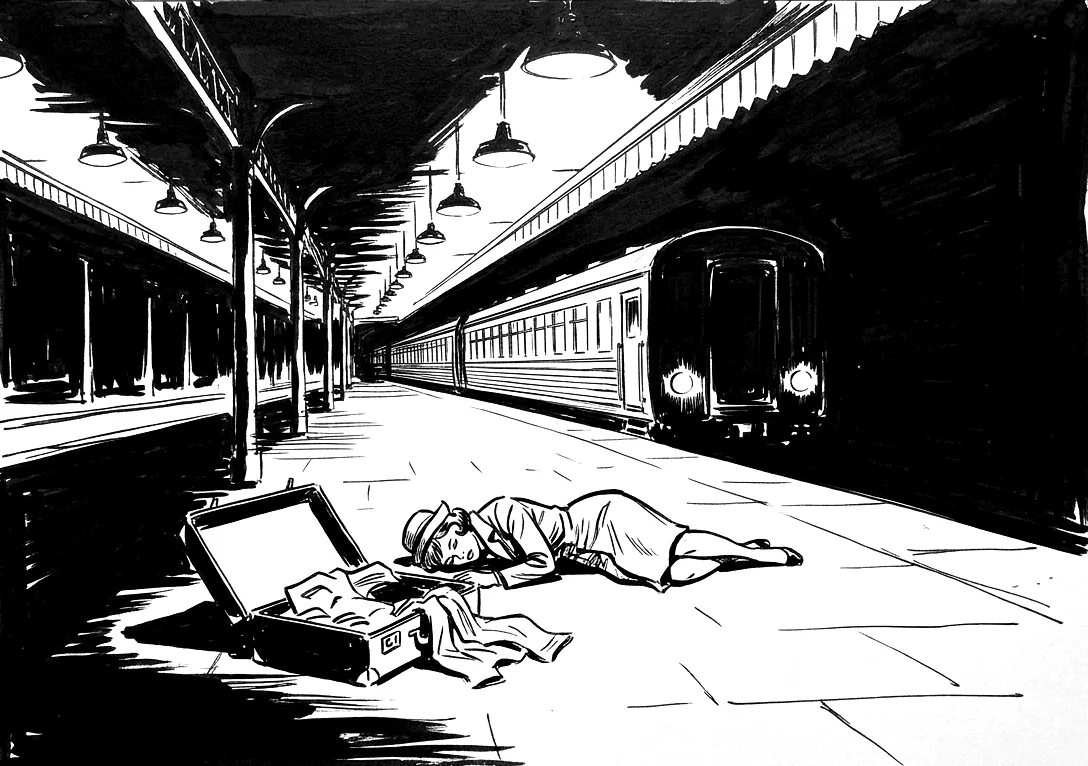
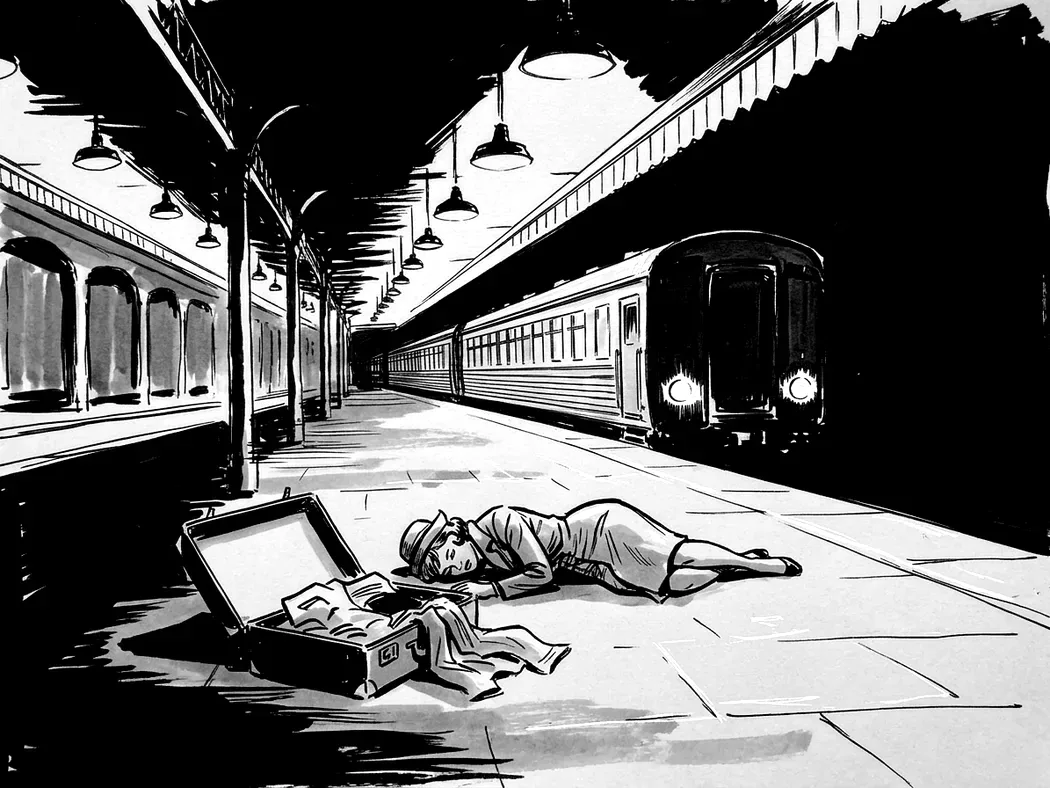
Mordbilder: perrong, trappa, hamn och telefonkiosk för både kvinna och man
Perrongen och trappan med kvinna är omgjorda med de nya prompterna
(Jonas 2026-11-14: "Mer enhetligt med övriga"), och nya bilder med man
är gjorda efter dem. Hamnen och telefonkiosken har fått nya bilder med
kvinna, gjorda efter mannens. Nu finns åtta mordbilder för kvinna och
åtta för man.

Hamnens dimma är ett undantag från gränsen för grått (Jonas 2026-11-14:
"ja, vi gör undantag"), och kontrollera-bilder.py hoppar över grått i
de två hamnbilderna.

Claude-Session: https://claude.ai/code/session_01X82C4AptUEE9LHKngPSzUq

diff --git a/src/scenes/sceneImages.js b/src/scenes/sceneImages.js
@@ -64,6 +64,10 @@ import morningMurderStairsWoman from './images/morgon-mord-trappa-kvinna.webp';
 import morningMurderPlatformWoman from './images/morgon-mord-perrong-kvinna.webp';
 import morningMurderDocksMan from './images/morgon-mord-hamn-man.webp';
 import morningMurderPhoneBoothMan from './images/morgon-mord-telefonkiosk-man.webp';
+import morningMurderStairsMan from './images/morgon-mord-trappa-man.webp';
+import morningMurderPlatformMan from './images/morgon-mord-perrong-man.webp';
+import morningMurderDocksWoman from './images/morgon-mord-hamn-kvinna.webp';
+import morningMurderPhoneBoothWoman from './images/morgon-mord-telefonkiosk-kvinna.webp';
 import morningNoMurder from './images/morgon-ingen.webp';
 import verdictWoman from './images/dom-kvinna.webp';
 import verdictMan from './images/dom-man.webp';
@@ -137,10 +141,14 @@ export const SCENE_IMAGES = /** @type {const} */ ({
   morningMurderCloseUpMan: { src: morningMurderCloseUpMan, alt: 'En man i kostym ligger död på ett mörkt trägolv. En nedslagen skrivbordslampa ligger på sidan bredvid honom, och glasögonen ligger i ljuset.', position: '35% 50%' },
   morningMurderPoliceWoman: { src: morningMurderPoliceWoman, alt: 'En kvinna ligger död på en våt gata en grå morgon. En polis sitter på huk bredvid henne, hennes sko och handväska ligger utspridda, och en bagare, en man med portfölj och en tidningspojke tittar på.', position: '40% 50%' },
   morningMurderPoliceMan: { src: morningMurderPoliceMan, alt: 'En man ligger död på en våt gata en grå morgon. En polis sitter på huk bredvid honom, hans hatt ligger på gatstenen, och en bagare, en man med portfölj och en tidningspojke tittar på.', position: '40% 50%' },
-  morningMurderStairsWoman: { src: morningMurderStairsWoman, alt: 'Sett uppifrån i ett spiraltrapphus ligger en kvinna död på det rutiga golvet längst ner. Hennes skor ligger kvar på trappstegen.', position: '50% 50%' },
+  morningMurderStairsWoman: { src: morningMurderStairsWoman, alt: 'Sett uppifrån i ett spiraltrapphus ligger en kvinna död på det rutiga golvet längst ner. En av hennes skor ligger kvar på trappstegen.', position: '50% 50%' },
   morningMurderPlatformWoman: { src: morningMurderPlatformWoman, alt: 'En kvinna i hatt ligger död på en perrong bredvid en uppbruten resväska, medan ett tåg står inne vid plattformen.', position: '35% 50%' },
   morningMurderDocksMan: { src: morningMurderDocksMan, alt: 'En man ligger död bland lårar på en kaj i dimman, under kranar och ett stort fartyg. Hans hatt flyter i vattnet.', position: '50% 50%' },
   morningMurderPhoneBoothMan: { src: morningMurderPhoneBoothMan, alt: 'En man i hatt och rock sitter död i en telefonkiosk i regnet. Luren hänger i sin sladd ovanför honom.', position: '45% 50%' },
+  morningMurderStairsMan: { src: morningMurderStairsMan, alt: 'Sett uppifrån i ett spiraltrapphus ligger en man död på det rutiga golvet längst ner. Hans hatt ligger kvar på trappstegen.', position: '50% 50%' },
+  morningMurderPlatformMan: { src: morningMurderPlatformMan, alt: 'En man i mörk rock ligger död på en perrong bredvid en uppbruten resväska och sin hatt, medan ett tåg står inne vid plattformen.', position: '35% 50%' },
+  morningMurderDocksWoman: { src: morningMurderDocksWoman, alt: 'En kvinna ligger död bland lårar på en kaj i dimman, under kranar och ett stort fartyg. Hennes hatt flyter i vattnet.', position: '50% 50%' },
+  morningMurderPhoneBoothWoman: { src: morningMurderPhoneBoothWoman, alt: 'En kvinna i ljus kappa sitter död i en telefonkiosk i regnet med hatten i knät. Luren hänger i sin sladd ovanför henne.', position: '45% 50%' },
   morningNoMurder: { src: morningNoMurder, alt: 'En regnvåt gata på morgonen. En mjölkbud ställer flaskor på en trappa, och en man i hatt läser tidningen mot en vägg.', position: '65% 50%' },
   verdictWoman: { src: verdictWoman, alt: 'Två män i hatt pekar på en rädd kvinna som står med hatten i handen vid en tegelvägg.', position: '50% 40%' },
   verdictLawyerWoman: { src: verdictLawyerWoman, alt: 'Två män i hatt pekar på en rädd kvinna, men en advokat i lång rock och hatt har klivit fram bredvid henne och håller upp handen.', position: '55% 40%' },

diff --git a/src/scenes/describeScene.js b/src/scenes/describeScene.js
@@ -72,8 +72,8 @@ export function chooseRoleImage(role, variant) {
  * @type {Record<RoleImageVariant, SceneImageKey[]>}
  */
 export const MURDER_IMAGES = {
-  woman: ['morningMurderWoman', 'morningMurderHotelWoman', 'morningMurderCloseUpWoman', 'morningMurderPoliceWoman', 'morningMurderStairsWoman', 'morningMurderPlatformWoman'],
-  man: ['morningMurderMan', 'morningMurderHotelMan', 'morningMurderCloseUpMan', 'morningMurderPoliceMan', 'morningMurderDocksMan', 'morningMurderPhoneBoothMan'],
+  woman: ['morningMurderWoman', 'morningMurderHotelWoman', 'morningMurderCloseUpWoman', 'morningMurderPoliceWoman', 'morningMurderStairsWoman', 'morningMurderPlatformWoman', 'morningMurderDocksWoman', 'morningMurderPhoneBoothWoman'],
+  man: ['morningMurderMan', 'morningMurderHotelMan', 'morningMurderCloseUpMan', 'morningMurderPoliceMan', 'morningMurderDocksMan', 'morningMurderPhoneBoothMan', 'morningMurderStairsMan', 'morningMurderPlatformMan'],
 };
 
 /**

diff --git a/scripts/kontrollera-bilder.py b/scripts/kontrollera-bilder.py
@@ -35,6 +35,8 @@ FLAT_GREY_RANGE = (60, 195)
 FLAT_GREY_BLUR_RADIUS = 1
 FLAT_GREY_MAX_STEP = 6
 MAX_FLAT_GREY_PERCENT = 12
+# Hamnens dimma är grå med flit och får vara det (Jonas 2026-11-14).
+FLAT_GREY_EXCEPTIONS = {"morgon-mord-hamn-kvinna.webp", "morgon-mord-hamn-man.webp"}
 
 
 def check(path):
@@ -61,7 +63,7 @@ def check(path):
     if lightest < 255:
         problems.append(f"har inget rent vitt ({LIGHTEST_PERCENTILE}:e percentilen är {lightest:.0f}, ska vara 255)")
     flat = flat_grey_percent(path)
-    if flat > MAX_FLAT_GREY_PERCENT:
+    if flat > MAX_FLAT_GREY_PERCENT and path.name not in FLAT_GREY_EXCEPTIONS:
         problems.append(f"har jämna grå ytor på {flat:.1f} procent av bilden, ska vara högst {MAX_FLAT_GREY_PERCENT}")
     return problems
 

diff --git a/docs/bildsmak.md b/docs/bildsmak.md
@@ -72,10 +72,16 @@ på `src/scenes/images/`.
    mäter jämna grå ytor och godkänner högst 12 procent av bilden; de
    godkända laveringsbilderna har 2,5–10,8 procent. Under gränsen avgör
    ögat vilken sorts grått det är.
+   - Undantag: dimman i hamnen, `morgon-mord-hamn-*`. Den är grå med flit och
+     snyggare än en hamn utan dimma (Jonas 2026-11-14: "Jag tycker dimman är
+     snyggare", "ja, vi gör undantag"). Kontrollen hoppar över grått i de två
+     bilderna.
    - Gillar, lavering: `roll-detektiv-*`, `natt-detektiv-*`,
      `roll-taxichauffor-kvinna`, `natt-lakare-*` (2026-11-14).
    - Gillar: `dom-kvinna`, `dom-man`, `roll-bartender-*`, `roll-korvgubbe-*`,
-     `morgon-mord-trappa-kvinna`, `skapa`.
+     `skapa`. (`morgon-mord-trappa-kvinna` och `morgon-mord-perrong-kvinna`
+     gillades helt svartvita och gjordes om med lavering 2026-11-14: "Jag
+     tycker att båda blev bättre. Mer enhetligt med övriga.")
    - Gillar inte (de gamla, nu bytta): `natt-detektiv-*`, `natt-lakare-*`
      (grå tvätt över hela bilden).
    - Gränsfall: `morgon-mord-telefonkiosk-man`. Gillas, eftersom det grå bara
@@ -267,6 +273,16 @@ en regel.
   Lampan ligger rätt tycker jag" (den där lampan syns tydligast, fast skärmen
   pekar bort från honom). Kvinnan gjord med den mannen som referens: "Mycket
   bra!"
+- 2026-11-14, `morgon-mord-perrong-kvinna` och `morgon-mord-trappa-kvinna`
+  omgjorda med de nya prompterna och de gamla som referens: "Jag tycker att
+  båda blev bättre. Mer enhetligt med övriga." Männen (`morgon-mord-perrong-man`,
+  `morgon-mord-trappa-man`) gjorda med kvinnornas bilder som referens: "Mycket
+  bra."
+- 2026-11-14, nya kvinnobilder till hamnen och telefonkiosken, gjorda med
+  mannens bild som referens. Hamnen utan dimma, med svarta silhuetter mot en
+  laverad himmel (bortvald): "Jag tycker dimman är snyggare". Med dimman:
+  "Kvinnans kropp är för stor i förhållande till lyktstolpen, annars bra".
+  Omgjord i samma storlek som mannen.
 
 ## Bilder att byta
 
